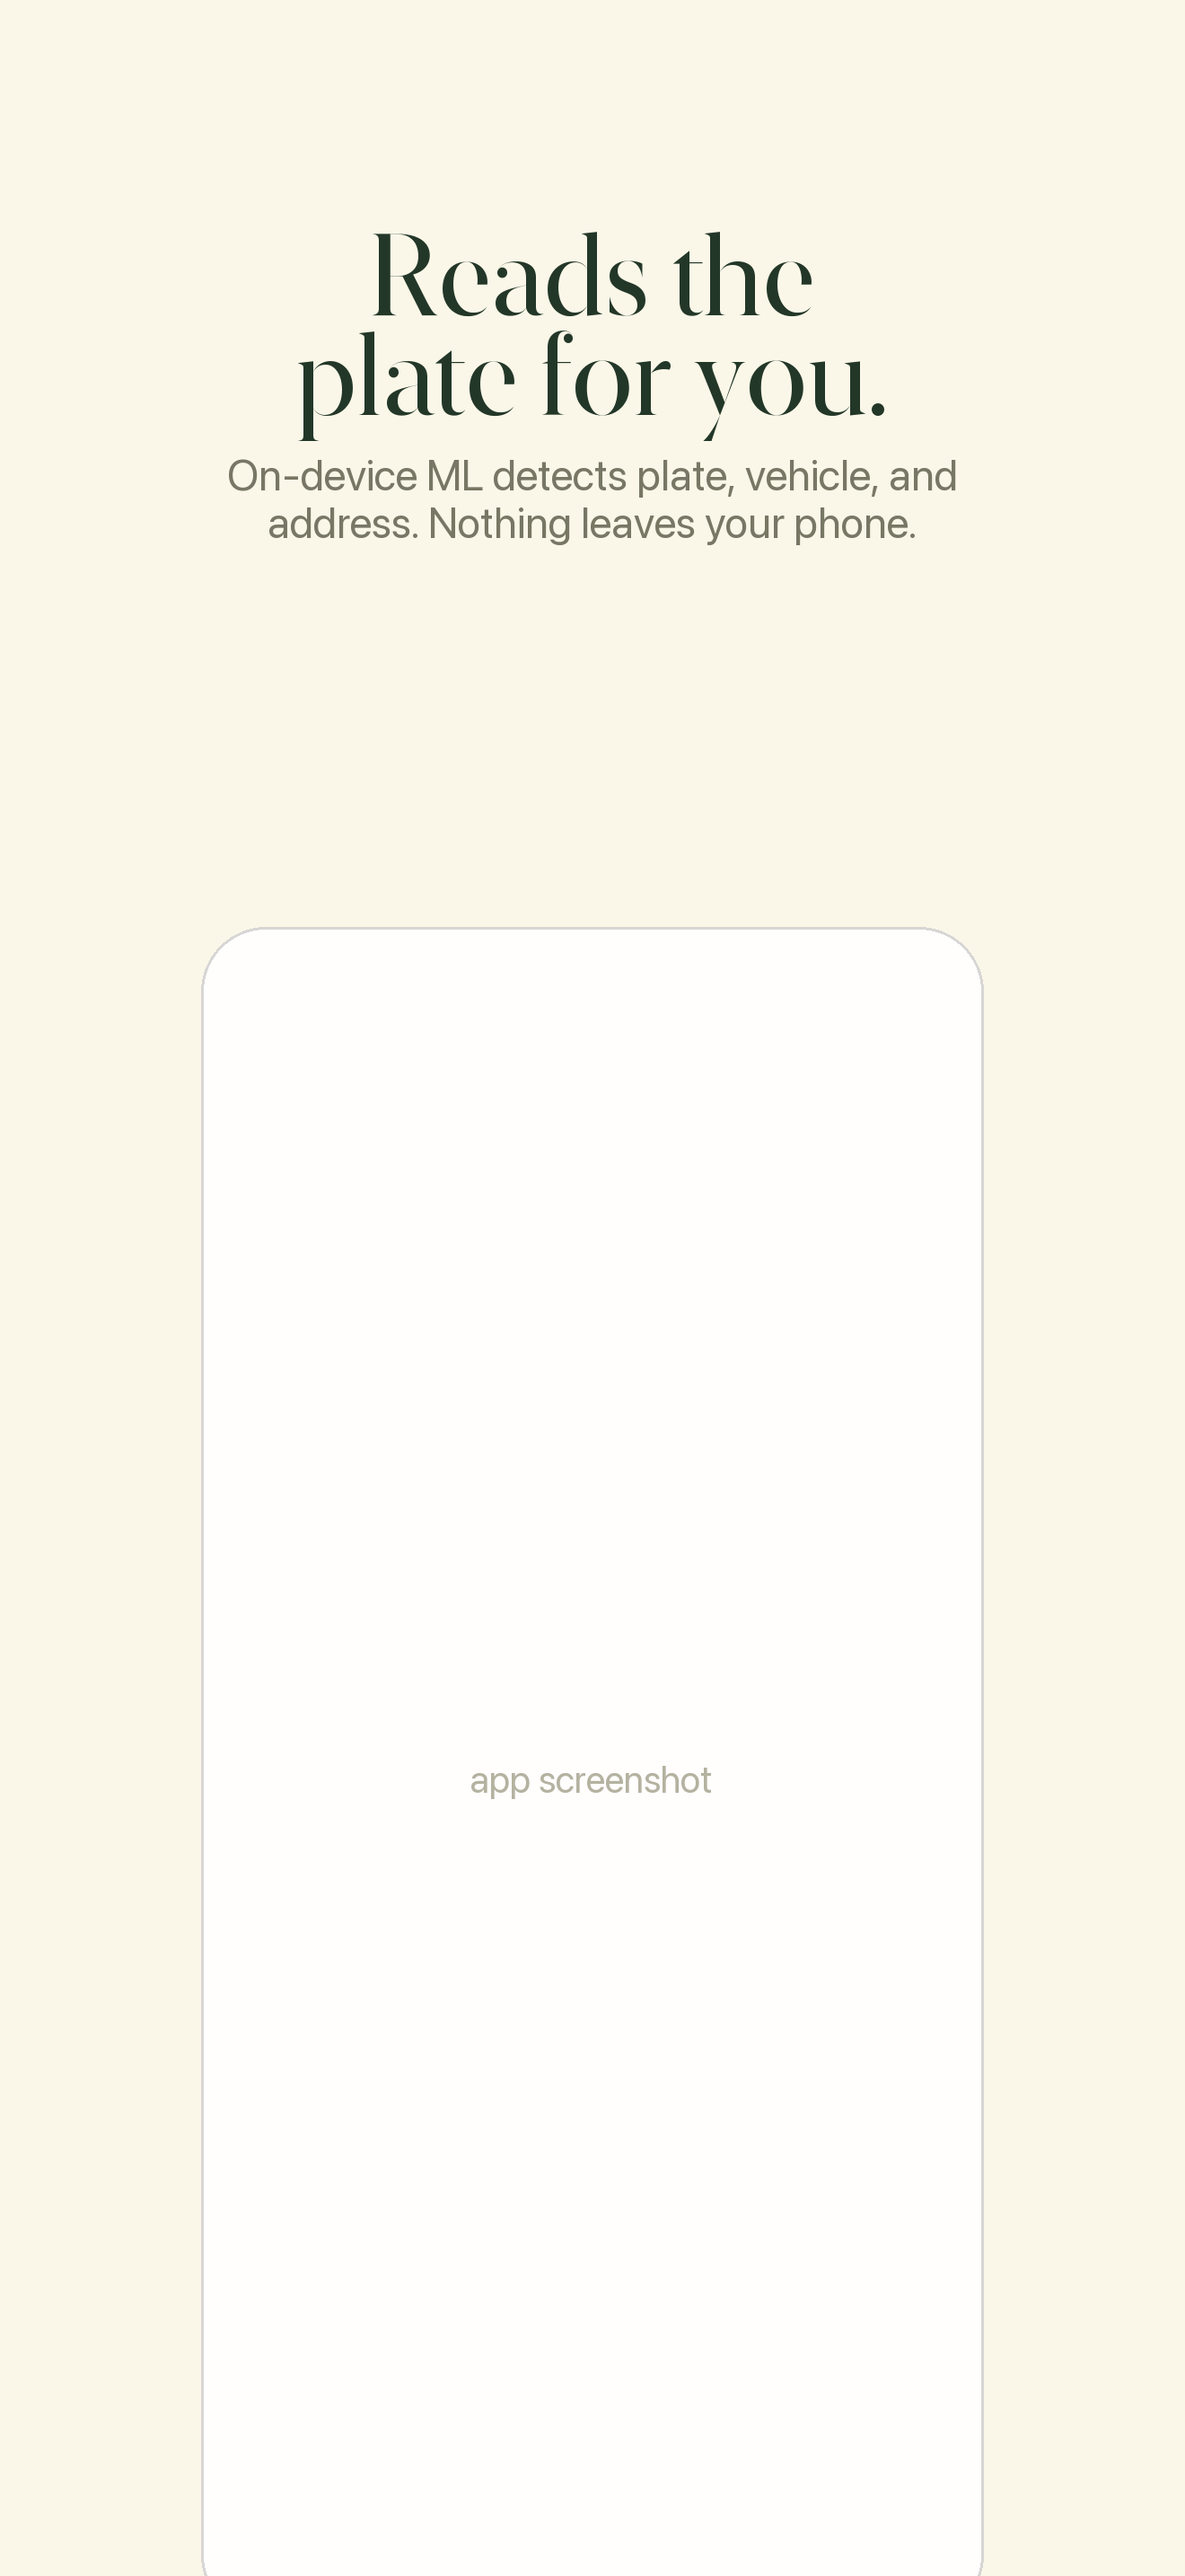
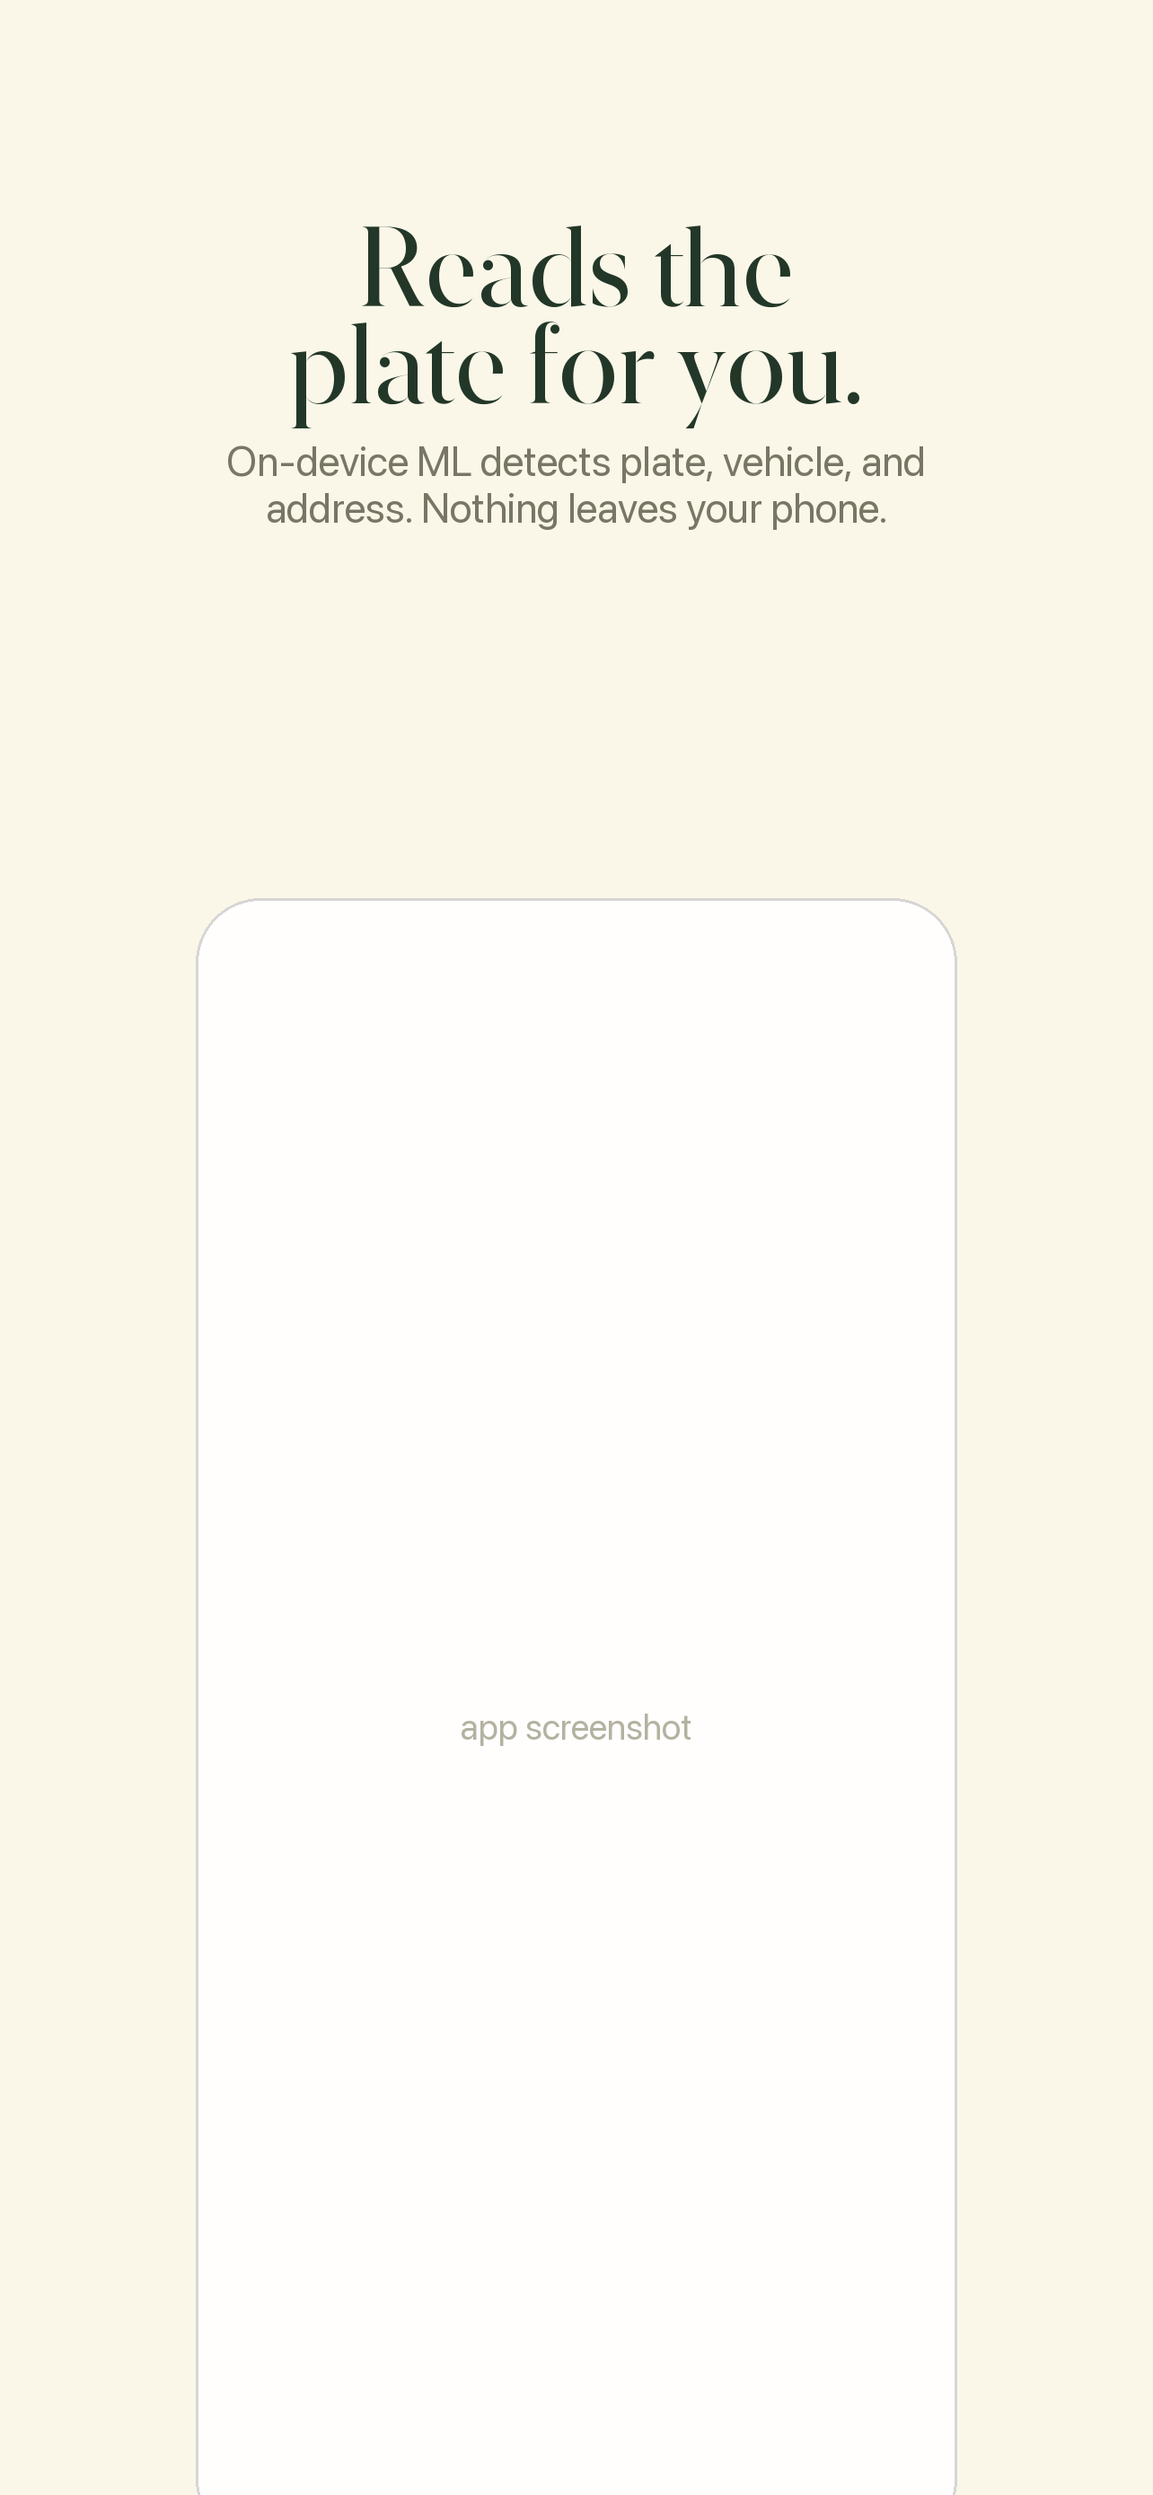
fix(marketing): 1284x2778 dimensions + extended #5 PII fill to guarantee no case numbers leak

diff --git a/marketing/scrub_pii.py b/marketing/scrub_pii.py
@@ -37,14 +37,11 @@ FILL = {
     # Block the date + case-number text block on each of the 7 history rows.
     # Rows span the full height of the list; each row ≈ 280 tall starting at
     # y≈615. We nuke the column x=280..760 (where date + case sit).
+    # One continuous strip covering all 7 case-number columns — avoids
+    # row-gap seams. Source is 1179×2556; the case list spans roughly
+    # y=600..2450, so we over-cover to guarantee nothing leaks.
     "05.png": [
-        (280, 615,  760, 785),    # row 1
-        (280, 795,  760, 965),    # row 2
-        (280, 975,  760, 1145),   # row 3
-        (280, 1155, 760, 1325),   # row 4
-        (280, 1335, 760, 1505),   # row 5
-        (280, 1515, 760, 1685),   # row 6
-        (280, 1695, 760, 1865),   # row 7
+        (280, 600, 780, 2480),
     ],
 }
 

diff --git a/marketing/compose.py b/marketing/compose.py
@@ -23,7 +23,9 @@ TEMPLATES = os.path.join(ROOT, "screenshots")
 APP_FRAMES = os.path.join(ROOT, "app-frames")
 FINAL = os.path.join(ROOT, "final")
 
-W, H = 1320, 2868
+# App Store Connect rejected 1320×2868 for this listing; the accepted sizes
+# are 1242×2688 (6.5") or 1284×2778 (6.5" @3x). Using 1284×2778.
+W, H = 1284, 2778
 PW = int(W * 0.66)
 PH = int(PW * 2.164)
 PX = (W - PW) // 2
